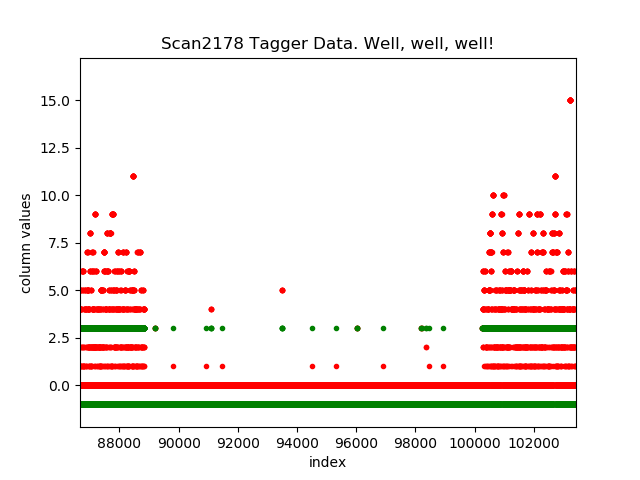
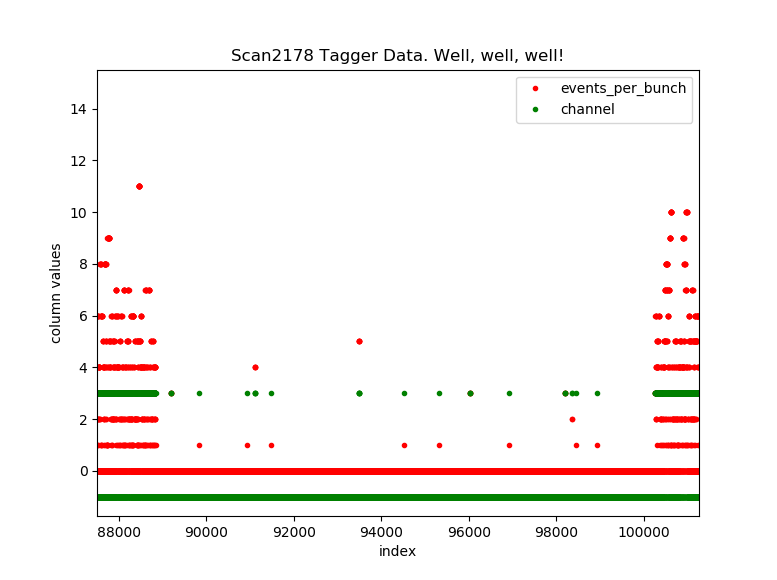
On the right track
Okay so I'm getting there, but it's not perfect

diff --git a/LoadingandMungingData.py b/LoadingandMungingData.py
@@ -119,8 +119,13 @@ def rawDatPrep(m, scanInd, wavenumber, verbose=False, cleanWM=False):
         #scanDataDic['wavemeter_pdl'] = pdl
         scanDataDic['has_wavemeter_pdl'] = True
 
+  #Whenever channel = -1 (which is almost certainly intended to indicate a glitch, right?), events_per_bunch is invariably 0;
+  #the detector literally can't count events during those -1 intervals. And yet they're counting against my count rates. It's just a bunch of extra dead times in the denominator, I think
+  #tag["channel"]=tag["channel"].map(lambda a: float('NaN') if a < 0 else a) 
+  #tag=tag[pd.notna(tag['channel'])]
+
   if scanDataDic['has_wavemeter']:
-    mfouter = pd.merge_ordered(tag.loc[:,['timestamp','bunch_no','events_per_bunch']], wm.loc[:,['timestamp','wavenumber_1','wavenumber_2']], on='timestamp', how='outer')# every scan _should_ have tagger and wavemeter data (or else what's the point?)
+    mfouter = pd.merge_ordered(tag.loc[:,['timestamp','bunch_no','events_per_bunch','channel']], wm.loc[:,['timestamp','wavenumber_1','wavenumber_2']], on='timestamp', how='outer')# every scan _should_ have tagger and wavemeter data (or else what's the point?)
   else: mfouter = tag.loc[:,['timestamp','bunch_no','events_per_bunch']]
   if scanDataDic['has_iscool'] == True:
     #mfouter = pd.merge_ordered(mfouter, ic.loc[:,['timestamp','voltage','betaVals','dopplerShiftFactor']], on='timestamp', how='outer') #2/Aug/2019. only keeping dopplerShiftFactor to further reduce data usage
@@ -141,13 +146,13 @@ def rawDatPrep(m, scanInd, wavenumber, verbose=False, cleanWM=False):
        mfouter.loc[:,'dopplerShiftFactor'].fillna(method='backfill', inplace=True)
   """if scanDataDic['has_wavemeter_pdl'] == True:
        mfouter.loc[:,'wavenumber_pdl'] = mfouter.loc[:,'wavenumber_pdl'].fillna(method='backfill')"""
-
-  if verbose: print("TEST2:\n", mfouter.loc[:49,["timestamp","events_per_bunch", wavenumberToUse, 'voltage' if scanDataDic['has_iscool'] == True else 'bunch_no']])
+  
+  if verbose: print("TEST2:\n", mfouter.loc[:49,["timestamp","events_per_bunch", 'channel', wavenumberToUse, 'voltage' if scanDataDic['has_iscool'] == True else 'bunch_no']])
 
   mfouter["events_per_bunch"]=mfouter["events_per_bunch"].map(lambda a: 1 if a > 0 else a) #2/Aug/2019. 10:11PM Going to just do this earlier on the original tag dataframe
   mfouter["events_per_bunch"]=mfouter["events_per_bunch"].astype('Int8',downcast='unsigned')
 
-  if verbose: print("TEST5:\n", mfouter.loc[:,"timestamp":wavenumberToUse])
+  if verbose: print("TEST5:\n", mfouter.loc[:,["timestamp",'events_per_bunch','channel',wavenumberToUse]])
   print(mfouter.info())
   mfouter = mfouter[pd.notna(mfouter['bunch_no'])]#2/Aug/2019. It looks like this is causing a MemoryError sometimes?
   mfouter = mfouter[pd.notna(mfouter[wavenumberToUse])]#2/Aug/2019. It looks like this is causing a MemoryError sometimes?
@@ -155,6 +160,10 @@ def rawDatPrep(m, scanInd, wavenumber, verbose=False, cleanWM=False):
   if verbose: print("TEST6:\n", mfouter.loc[:49,["timestamp","bunch_no","events_per_bunch",wavenumberToUse]])
   tStamps = np.array(mfouter.loc[:,'timestamp'])
   mfouter.loc[0:,'timeDiffs'] = pd.Series(np.append(0,tStamps[1:]-tStamps[:-1]), index=mfouter.index[0:])
+  
+  mfouter["channel"]=mfouter["channel"].map(lambda a: float('NaN') if a < 0 else a) #3/Aug/2019. 1:50AM pls work!
+  mfouter=mfouter[pd.notna(mfouter['channel'])]
+
   if scanDataDic['has_iscool'] == True:
     #mfouter.loc[:,'wavenumber'] = mfouter.loc[:,wavenumberToUse]*mfouter.loc[:, 'dopplerShiftFactor'] #FOUND ERROR IN PAPER
     mfouter.loc[:,'wavenumber'] = mfouter.loc[:,wavenumberToUse]/mfouter.loc[:, 'dopplerShiftFactor']
@@ -240,9 +249,9 @@ def doEverything(m, scanInd, wavenumber, nBins=100, resolution=-1, writeToFile=F
 if __name__ == '__main__':
   
   mass = 245
-  scanIndex = 2323#2324
-  wmNum = 'pdl'
-  numBins = 230
+  scanIndex = 2178#2324
+  wmNum = 2#'pdl'
+  numBins = 1000
 
   mfba =  rawDatPrep(mass, scanIndex, wmNum, cleanWM=True, verbose=True)
   print("test 9:\n", mfba.head)
